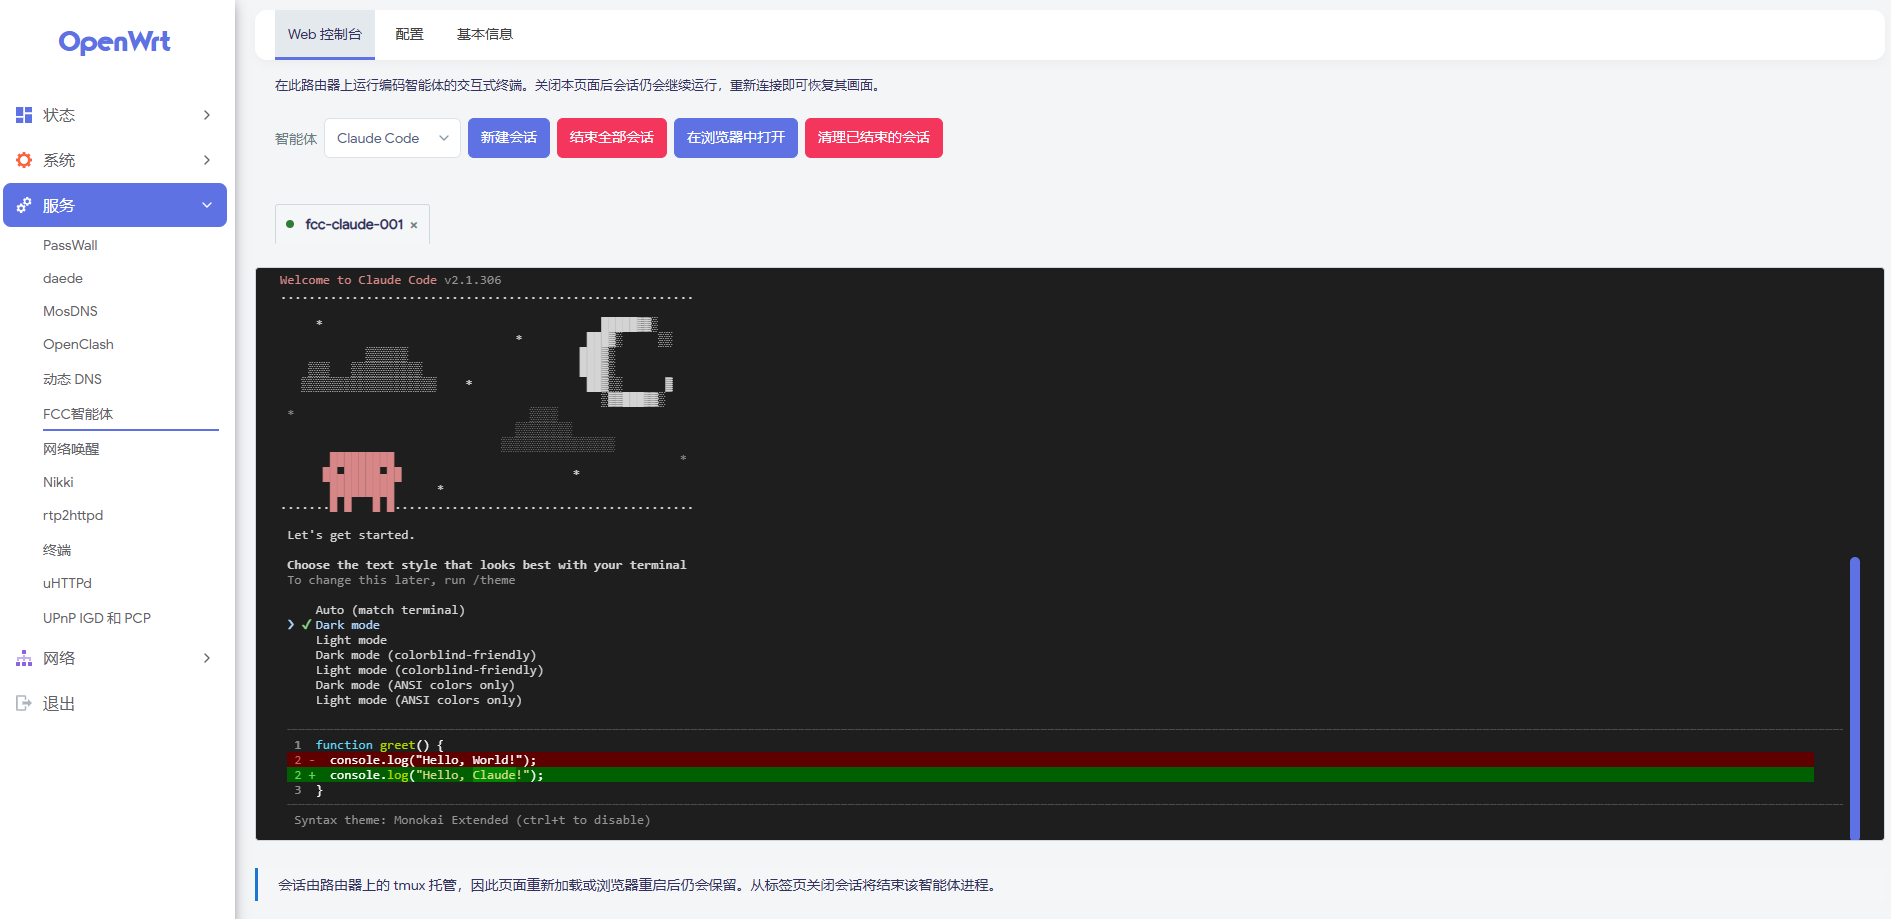
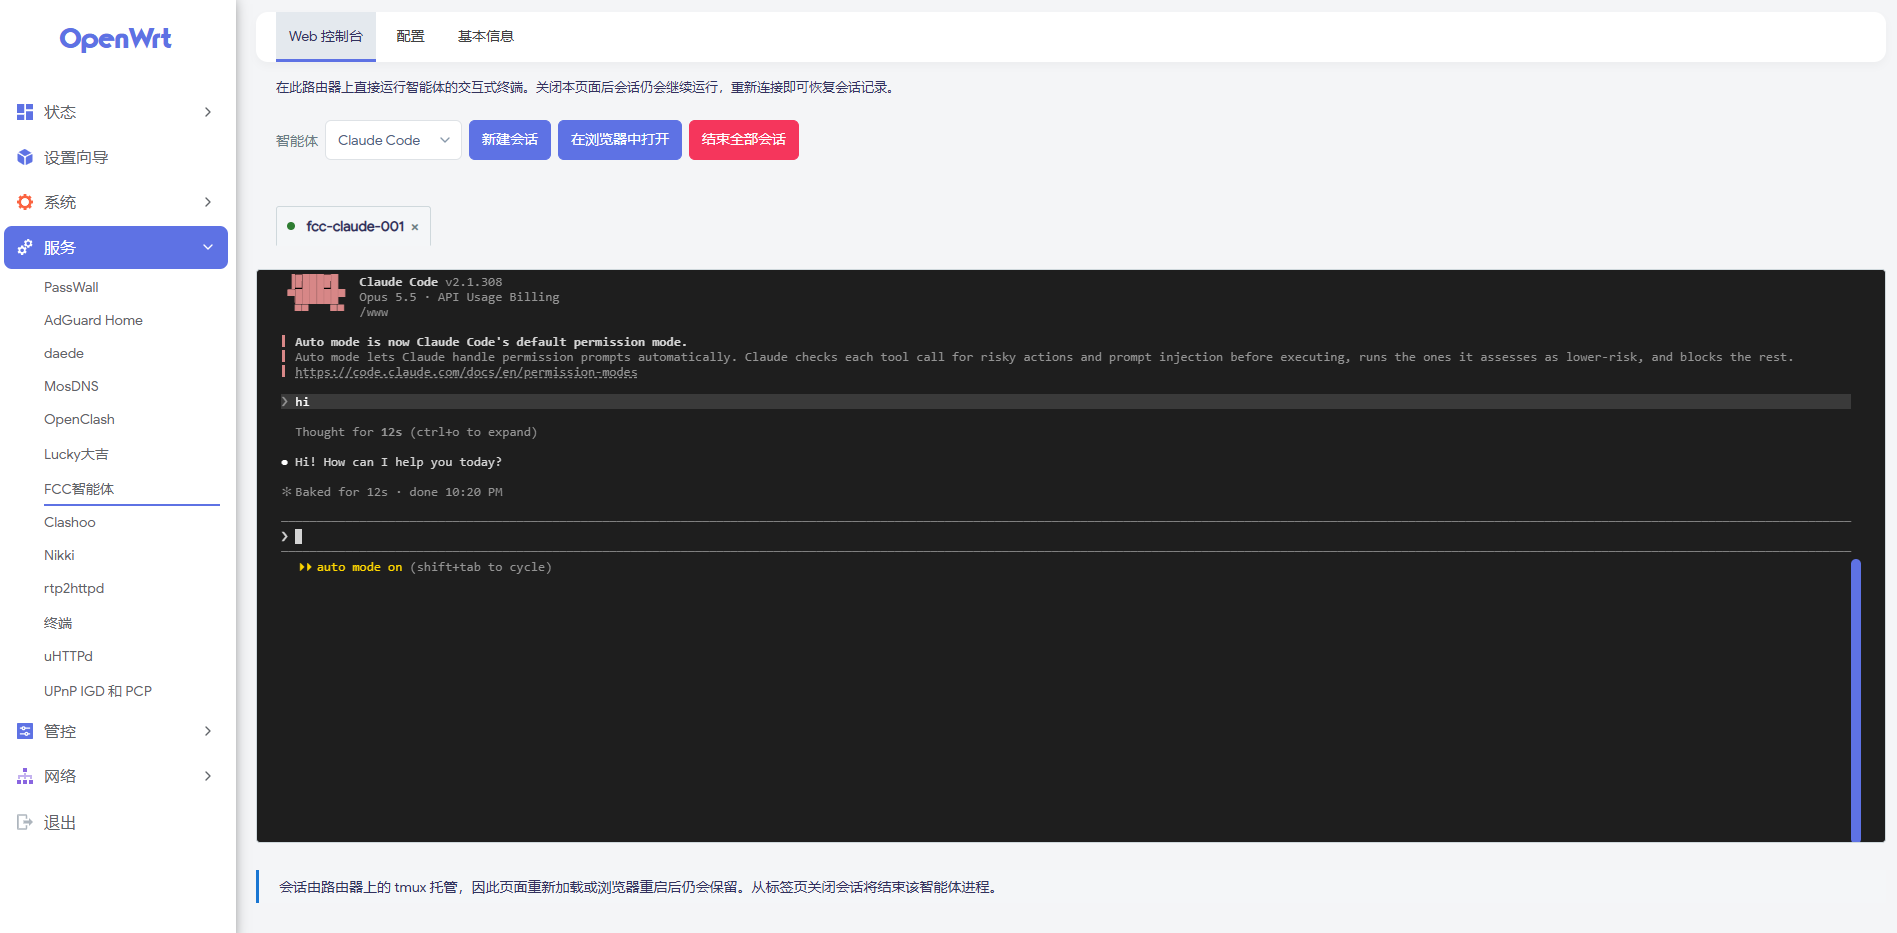
Document the merged install button and the new runtime settings
Both READMEs now describe the Configuration page as it is: one Install
button that adds a chosen agent without removing anything and, with All
agents on an installed runtime, asks before removing and reinstalling the
whole set; the renamed Uninstall completely button; the agent picker and
its ~8 GB warning; the configurable backup path and its cleanup after a
run; and the all-or-nothing whole-registry install as a known limitation.
The install step now points at Configuration rather than Basic
Information, the Cline section links the upstream musl request, and the
console screenshot is refreshed.

PKG_RELEASE goes to 4 for this release.

diff --git a/README.en.md b/README.en.md
@@ -10,7 +10,7 @@ Three pages, one package:
 | Page | What it does |
 | --- | --- |
 | **Web Console** | A real interactive terminal for Claude Code, Codex, Pi, OpenCode, Cline, Hermes, DeepSeek Harness, Grok Build, Muse Code and Aider — one tmux session per agent, in the browser. |
-| **Configuration** | FCC server settings (address, port, log level), the runtime install path, the agents to install, install/reinstall/update/uninstall, deletion of the saved backups on its own, start/stop/restart, the diagnostics report, and a link to the FCC Admin page. |
+| **Configuration** | FCC server settings (address, port, log level), the runtime install and backup paths, the agent picker, install/update/uninstall, complete uninstall, start/stop/restart, the diagnostics report, and a link to the FCC Admin page. |
 | **Basic Information** | Version, status, PID, uptime, RSS memory, CPU and hardware platform, system memory and storage, and FCC update checks. |
 
 `luci-app-fcc` is a **control layer only**. It ships Lua, JavaScript and POSIX
@@ -68,29 +68,42 @@ is the package working, not a fault.
 
 ## First run
 
-**1. Install the FCC runtime.** On the *Basic Information* page, choose
-**Install FCC Runtime**. You do not need to SSH in and run FCC's installer by
+**1. Install the FCC runtime.** On the *Configuration* page, choose an agent and
+press **Install**. You do not need to SSH in and run FCC's installer by
 hand — the page fetches the official installer over HTTPS, records its SHA-256,
 and runs it. Python, `uv` and the runtime itself are installed under the
-configured install path (`/opt/fcc` by default), never into this package.
+configured install path (`/opt` by default, so the runtime lands in `/opt/fcc`),
+never into this package.
+
+The agent picker defaults to **All agents**, which means the whole registry: an
+extremely slow download that takes about 8 GB of storage. Choose only the
+agents you need. A single agent is added to the runtime that is already there,
+and the other installed agents are left alone. If a runtime is already
+installed and **All agents** is still selected, the page asks first, then
+removes the runtime and installs every agent again — upstream reconciles the set
+it finds and never reinstalls an existing agent, so removing the runtime is the
+only way to replace a damaged one.
 
 **Check the free space first: the filesystem holding the install path needs at
 least 2 GB available, and 4 GB is recommended.** When there is less, this
 package refuses the install before downloading anything and says how much is
 missing, rather than letting it fail half-way. The runtime itself — Python 3.14,
 `uv`, the agents — peaks at around 741 MB measured, and 2 GB is that rounded up
-with room to spare: sharing the filesystem with the runtime are the backups (up
-to three copies of `data/`), the new runtime written beside the old one during
-an update, and a `uv` cache that grows with the Python it builds — one more
-agent or a larger release all eat into the margin, and guessing low leaves half
-a runtime on the device. 4 GB is recommended because backups accumulate across
-failed retries, and that margin costs less than cleaning up by hand afterwards.
+with room to spare: an update writes the new runtime beside the old one before
+discarding the old, `uv`'s cache grows with the Python it builds, and a failed
+run can leave its rollback copy on disk — one more agent or a larger release all
+eat into the margin, and guessing low leaves half a runtime on the device. The
+rollback copy goes to the **Backup path**, `/tmp/fcc` by default — `/tmp` is
+tmpfs on OpenWrt, which keeps it off the flash the runtime lives on — and is
+removed when the run ends either way. 4 GB is recommended to leave that margin
+for larger agent sets and later releases.
 
 The installer then asks which coding agents to install, and that conversation
 only reads `/dev/tty` — there is no flag or environment variable that skips it.
 So this package does not guess at the answers: the installer is run inside a
-`tmux` session, answered question by question according to the agents ticked on
-the *Configuration* page, and the whole terminal is written to
+`tmux` session, answered question by question according to the agent selected on
+the *Configuration* page (the whole registry, or one agent from the picker), and
+the whole terminal is written to
 `<install_path>/logs/installer.out`. When an install fails, that transcript is
 where the reason is — and the first place to look.
 
@@ -105,7 +118,7 @@ worth knowing, because both have been misread:
 * **The log is append-only, and the page shows the current run.** Each run
   starts with a `===== fcc job start <time>: <command> =====` line, and the page
   shows what follows the last one. For earlier runs, read
-  `<install_path>/logs/fcc-runtime.log` (install/reinstall) or `fcc-update.log`
+  `<install_path>/logs/fcc-runtime.log` (install) or `fcc-update.log`
   (update) on the router directly; when the install path is not writable they
   fall back to `/tmp/fcc-logs/`.
 
@@ -119,6 +132,8 @@ out for longer than that.
 **2. Configure.** On the *Configuration* page, set the address and port, then
 **Open FCC Admin** to add provider credentials. API keys are entered in FCC's
 own admin UI and are never stored in UCI — this package has nowhere to put them.
+The **Install path** and **Backup path** fields on the same page can be changed
+at any time; changing the install path does not move an existing runtime.
 
 > **Keep the address at `127.0.0.1`** unless you deliberately need to reach the
 > FCC Admin page from another device on your LAN. The FCC server's own default
@@ -156,11 +171,12 @@ luci-base  luci-compat  curl  ca-bundle  tmux
 
 `tar` is deliberately *not* among them — which is not the same as the tar on the
 device being good enough. Nothing here shells out to tar: the runtime installer
-is fetched as a shell script and run, and backups are directory renames. The
-*installer* does shell out to it, though: `uv` unpacks its own release with
-`tar xf … --no-same-owner --strip-components 1`, and busybox tar implements
-neither option. It prints its usage text, exits 1, and the install stops a few
-seconds after the last question with nothing on the page but the installer's
+is fetched as a shell script and run, and backups move directories and copy
+`data/`. The *installer* does shell out to it, though: `uv` unpacks its own
+release with `tar xf … --no-same-owner --strip-components 1`, and busybox tar
+implements neither option. It prints its usage text, exits 1, and the install
+stops a few seconds after the last question with nothing on the page but the
+installer's
 `uv installation failed with exit code 1`. So the *Configuration* page's
 diagnostics decide by **actually unpacking an archive**, not by reading a version
 string: a tar that supports both options (GNU tar, or libarchive's) is an OK;
@@ -195,7 +211,8 @@ from the selected set with a line saying why, every question the installer asks
 about it is answered no, and when it was the only agent asked for, the install
 is refused with `AGENT_UNSUPPORTED` instead of being allowed to hit that
 guaranteed failure. The diagnostics report it as a WARN "not available", not as
-a missing dependency.
+a missing dependency. An upstream request for musl builds is open:
+[cline/cline#15271](https://github.com/cline/cline/issues/15271).
 
 `git` is needed for one agent only: the Hermes installer fetches its sources
 with `git clone --filter=blob:none https://github.com/NousResearch/hermes-agent.git`,
@@ -225,8 +242,8 @@ why the runtime is installed on demand rather than shipped here.
 ### Packages the preflight installs
 
 *Configuration* → **Diagnostics** → **Run checks** lists every check with its
-value, requirement, result and suggestion. When **Install FCC Runtime**,
-**Reinstall** or **Update** is pressed and *every* failing check is one a
+value, requirement, result and suggestion. When **Install** or **Update** is
+pressed and *every* failing check is one a
 package can clear, the installer adds those packages, asks the diagnostics
 again, and only downloads the runtime once the report passes. A failure no
 package remedies — not enough free space, DNS, unreachable HTTPS, a CPU with no
@@ -305,7 +322,7 @@ exited, and their leftover files; running sessions are not touched.
 Makefile                  explicit Package/ definitions (no luci.mk)
 VERSION                   the upstream version (the release number is PKG_RELEASE)
 luasrc/controller/fcc.lua the LuCI dispatcher and the JSON API
-luasrc/fcc/               util.lua, agents.lua, paths.lua
+luasrc/fcc/               util.lua, agents.lua, paths.lua, adminproxy.lua
 luasrc/view/fcc/          the three pages
 htdocs/luci-static/…/fcc/ browser JavaScript and xterm.js
 root/etc/init.d/fcc       procd service for the FCC server
@@ -440,16 +457,15 @@ the release.
   musl build, so the diagnostics report it as a WARN "not available", and an
   install drops it with a line saying why — see *Requirements*. The other nine
   agents are unaffected.
-* **A first install cannot select zero agents.** Upstream's chooser refuses an
-  empty set and re-asks the whole list, so "no agents" cannot be completed on a
-  fresh install. This package refuses it outright and says why, rather than
-  letting the installer spin. Selecting none is allowed once agents are already
-  installed: upstream keeps the ones it finds.
-* **A rolled-back update costs a second runtime's worth of disk while it runs.**
-  Rollback works by renaming the previous runtime aside rather than copying it,
-  which is free on one filesystem — but the new runtime still has to be written
-  before the old one is discarded, so the free-space preflight has to cover one
-  runtime, not zero. That is what it checks.
+* **A whole-registry install is all-or-nothing.** Upstream stops at the first
+  agent it cannot install and rolls the entire run back, so one agent that
+  cannot be installed on the device makes **All agents** install none of them.
+  Pick that agent on its own from the dropdown, one at a time, to get the rest.
+* **An update needs room for the new runtime before the old one is discarded.**
+  Rollback moves the previous runtime aside: a rename when the backup path is on
+  the same filesystem, a copy when it is the default `/tmp` tmpfs. Either way the
+  new runtime is written before the old one can be dropped, so the free-space
+  preflight has to cover one runtime, not zero. That is what it checks.
 
 ---
 
